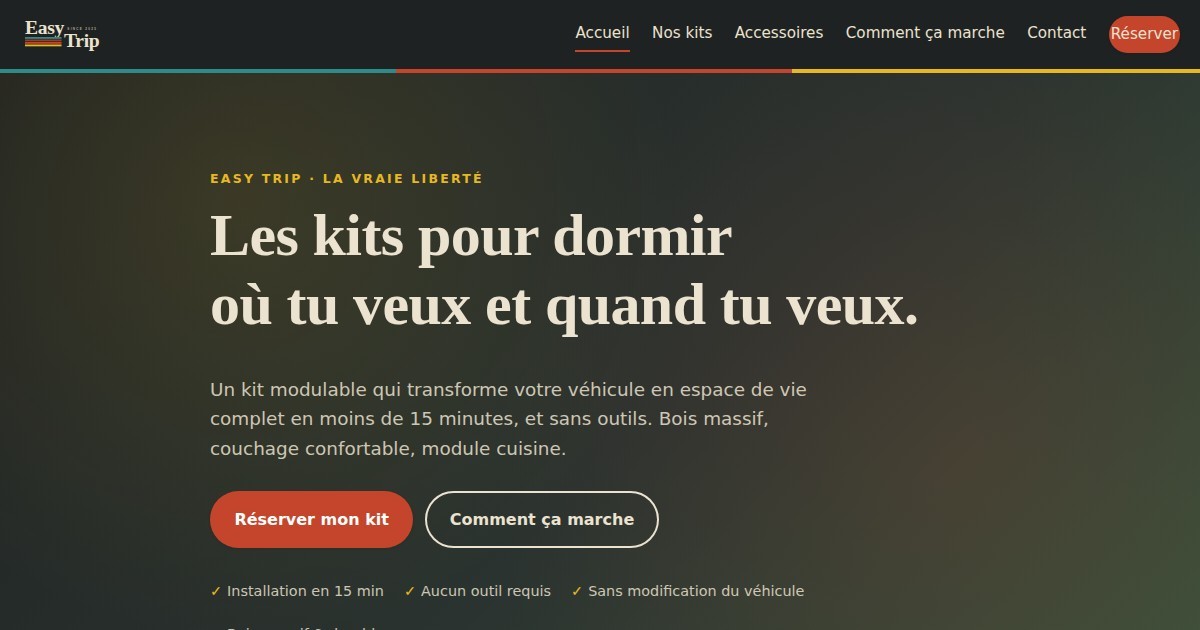
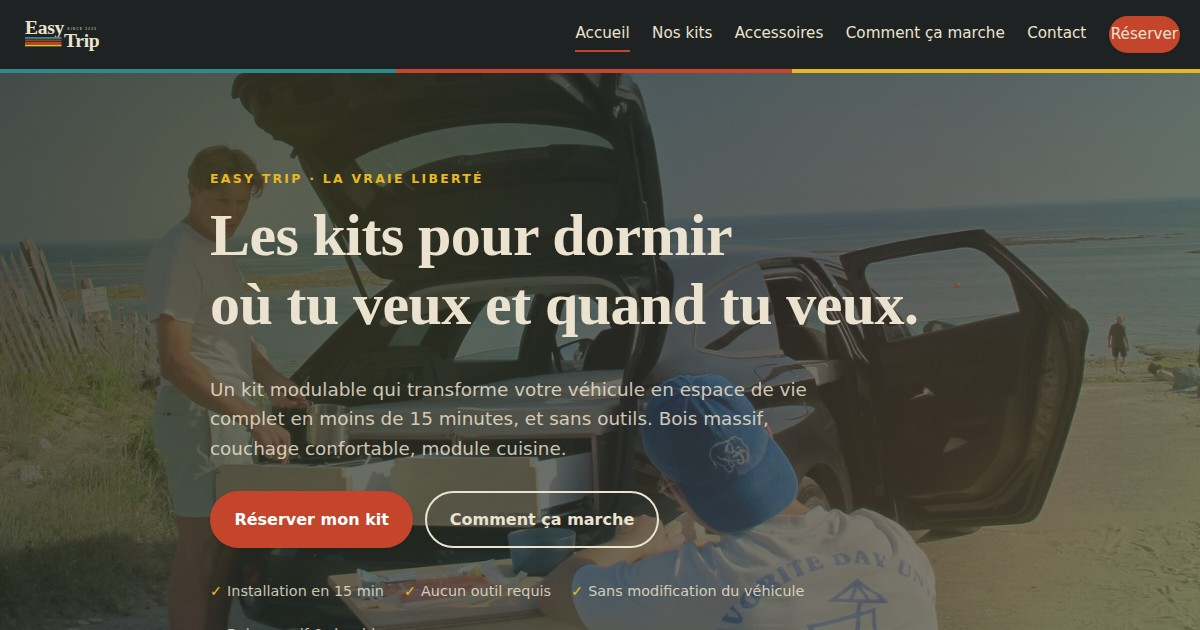
Ajoute une photo en arrière-plan à l'image de prévisualisation (poster vidéo hero)

diff --git a/index.html b/index.html
@@ -85,7 +85,7 @@
 
   <main>
     <section class="hero">
-      <video class="hero-video" autoplay muted loop playsinline preload="auto">
+      <video class="hero-video" autoplay muted loop playsinline preload="auto" poster="assets/img/kit-01.jpg">
         <source src="assets/video/hero.mp4" type="video/mp4">
       </video>
       <div class="hero-video-overlay"></div>
